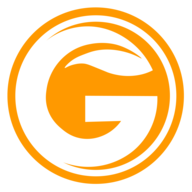
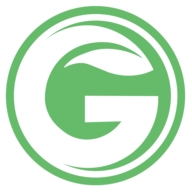
Commit before pull 18/02

diff --git a/web/Base/css/style.css b/web/Base/css/style.css
@@ -44,7 +44,7 @@ h1,h2,h3,h4,h5,h6,p{
 	font-weight: 500;
 }
 .header-grid ul li a:hover{
-	color:#ff9900;
+	color:#66bb6a;
 }
 .header-grid ul li label {
 	color: #dadada;
@@ -54,7 +54,7 @@ h1,h2,h3,h4,h5,h6,p{
 	vertical-align: middle;
 }
 .header-top {
-	padding: 2em 0;
+	padding: 0.7em 0;
 }
 /*----*/
 /* PREFIXED CSS */
@@ -157,7 +157,7 @@ h1,h2,h3,h4,h5,h6,p{
 	left: 0;
 	right: 0;
 	top: 100%;
-	background:#B07823;
+	background:#3C9947;
 	overflow: hidden;
 	opacity: 0;
 	color:#fff;
@@ -221,7 +221,7 @@ h1,h2,h3,h4,h5,h6,p{
 }
 /*----*/
 .header-bottom-bottom{
-	border-top:5px solid #ff9900;
+	border-top:5px solid #66bb6a;
 }
 .search {
 	margin: 0.8em 0.8em 0 0em;	
@@ -244,7 +244,7 @@ a.cart-in{
 	text-decoration:none;
 }
 .cart span{
-	background:#ff9900;
+	background:#66bb6a;
 	border-radius:100px;
 	color:#fff;
 	font-size:1.5em;
@@ -269,7 +269,7 @@ a.cart-in{
 .search input[type="submit"] {	
 	width: 60px;
 	height: 46px;
-	background: #ff9900 url(../images/img-sprite.png) -55px 6px no-repeat;
+	background: #66bb6a url(../images/img-sprite.png) -55px 6px no-repeat;
 	padding: 0px 10px;
 	border: none;
 	cursor: pointer;
@@ -286,13 +286,13 @@ a.cart-in{
 	text-decoration:none;
 	color:#000;
 	font-size:1.8em;
-	margin: 1.5em 1em;
+	margin: 0.4em 0.8em;
 	display: block;
 	font-weight: 500;
-	letter-spacing: 2px;
+	letter-spacing: 1.5px;
 }
 .top-nav ul li a:hover,.top-nav ul li.active a{
-	color:#ff9900;
+	color:#66bb6a;
 }
 /*----*/
 .top-nav span.menu:before{
@@ -1268,7 +1268,7 @@ a.company{
 }
 /*----*/
 .footer{
-	background:#ff9900;
+	background:#66bb6a;
 	padding:2em 0;
 	text-align:center;
 }
